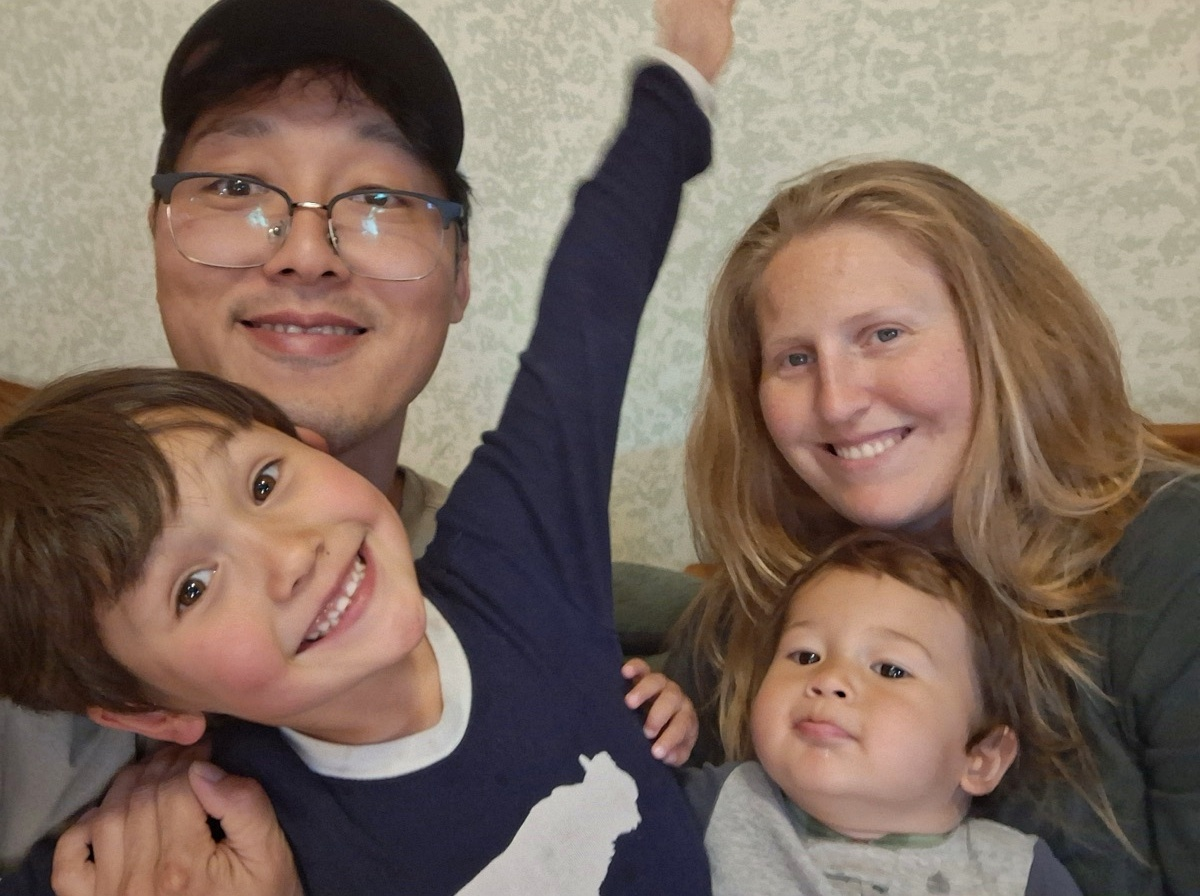
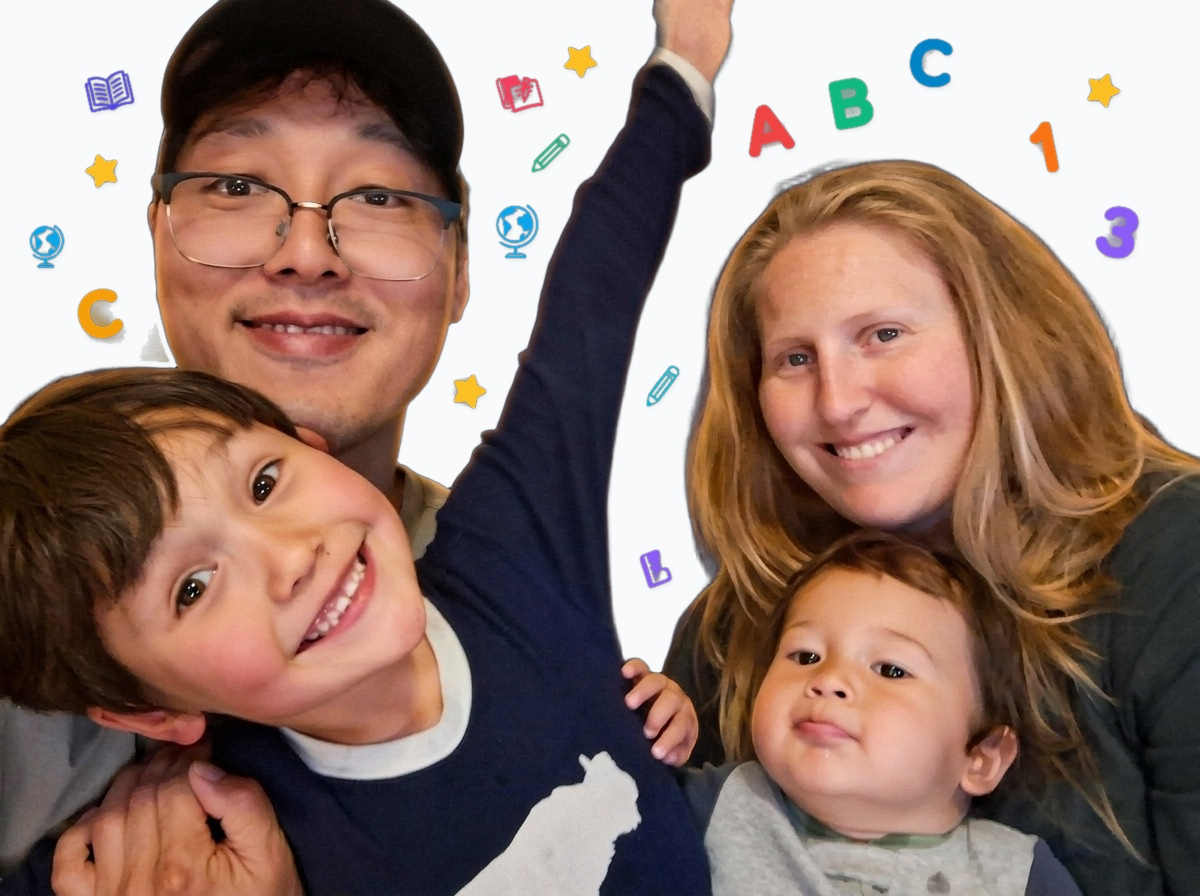
Blend family portrait into light mode with page background and playful doodles

diff --git a/sw.js b/sw.js
@@ -3,7 +3,7 @@
  * Caches application shell, quizzes, scripts, audio files, and Lottie animations
  * so users can study offline.
  */
-const CACHE_NAME = 'rhyrhy-cache-v15';
+const CACHE_NAME = 'rhyrhy-cache-v16';
 
 const STATIC_ASSETS = [
   './',
